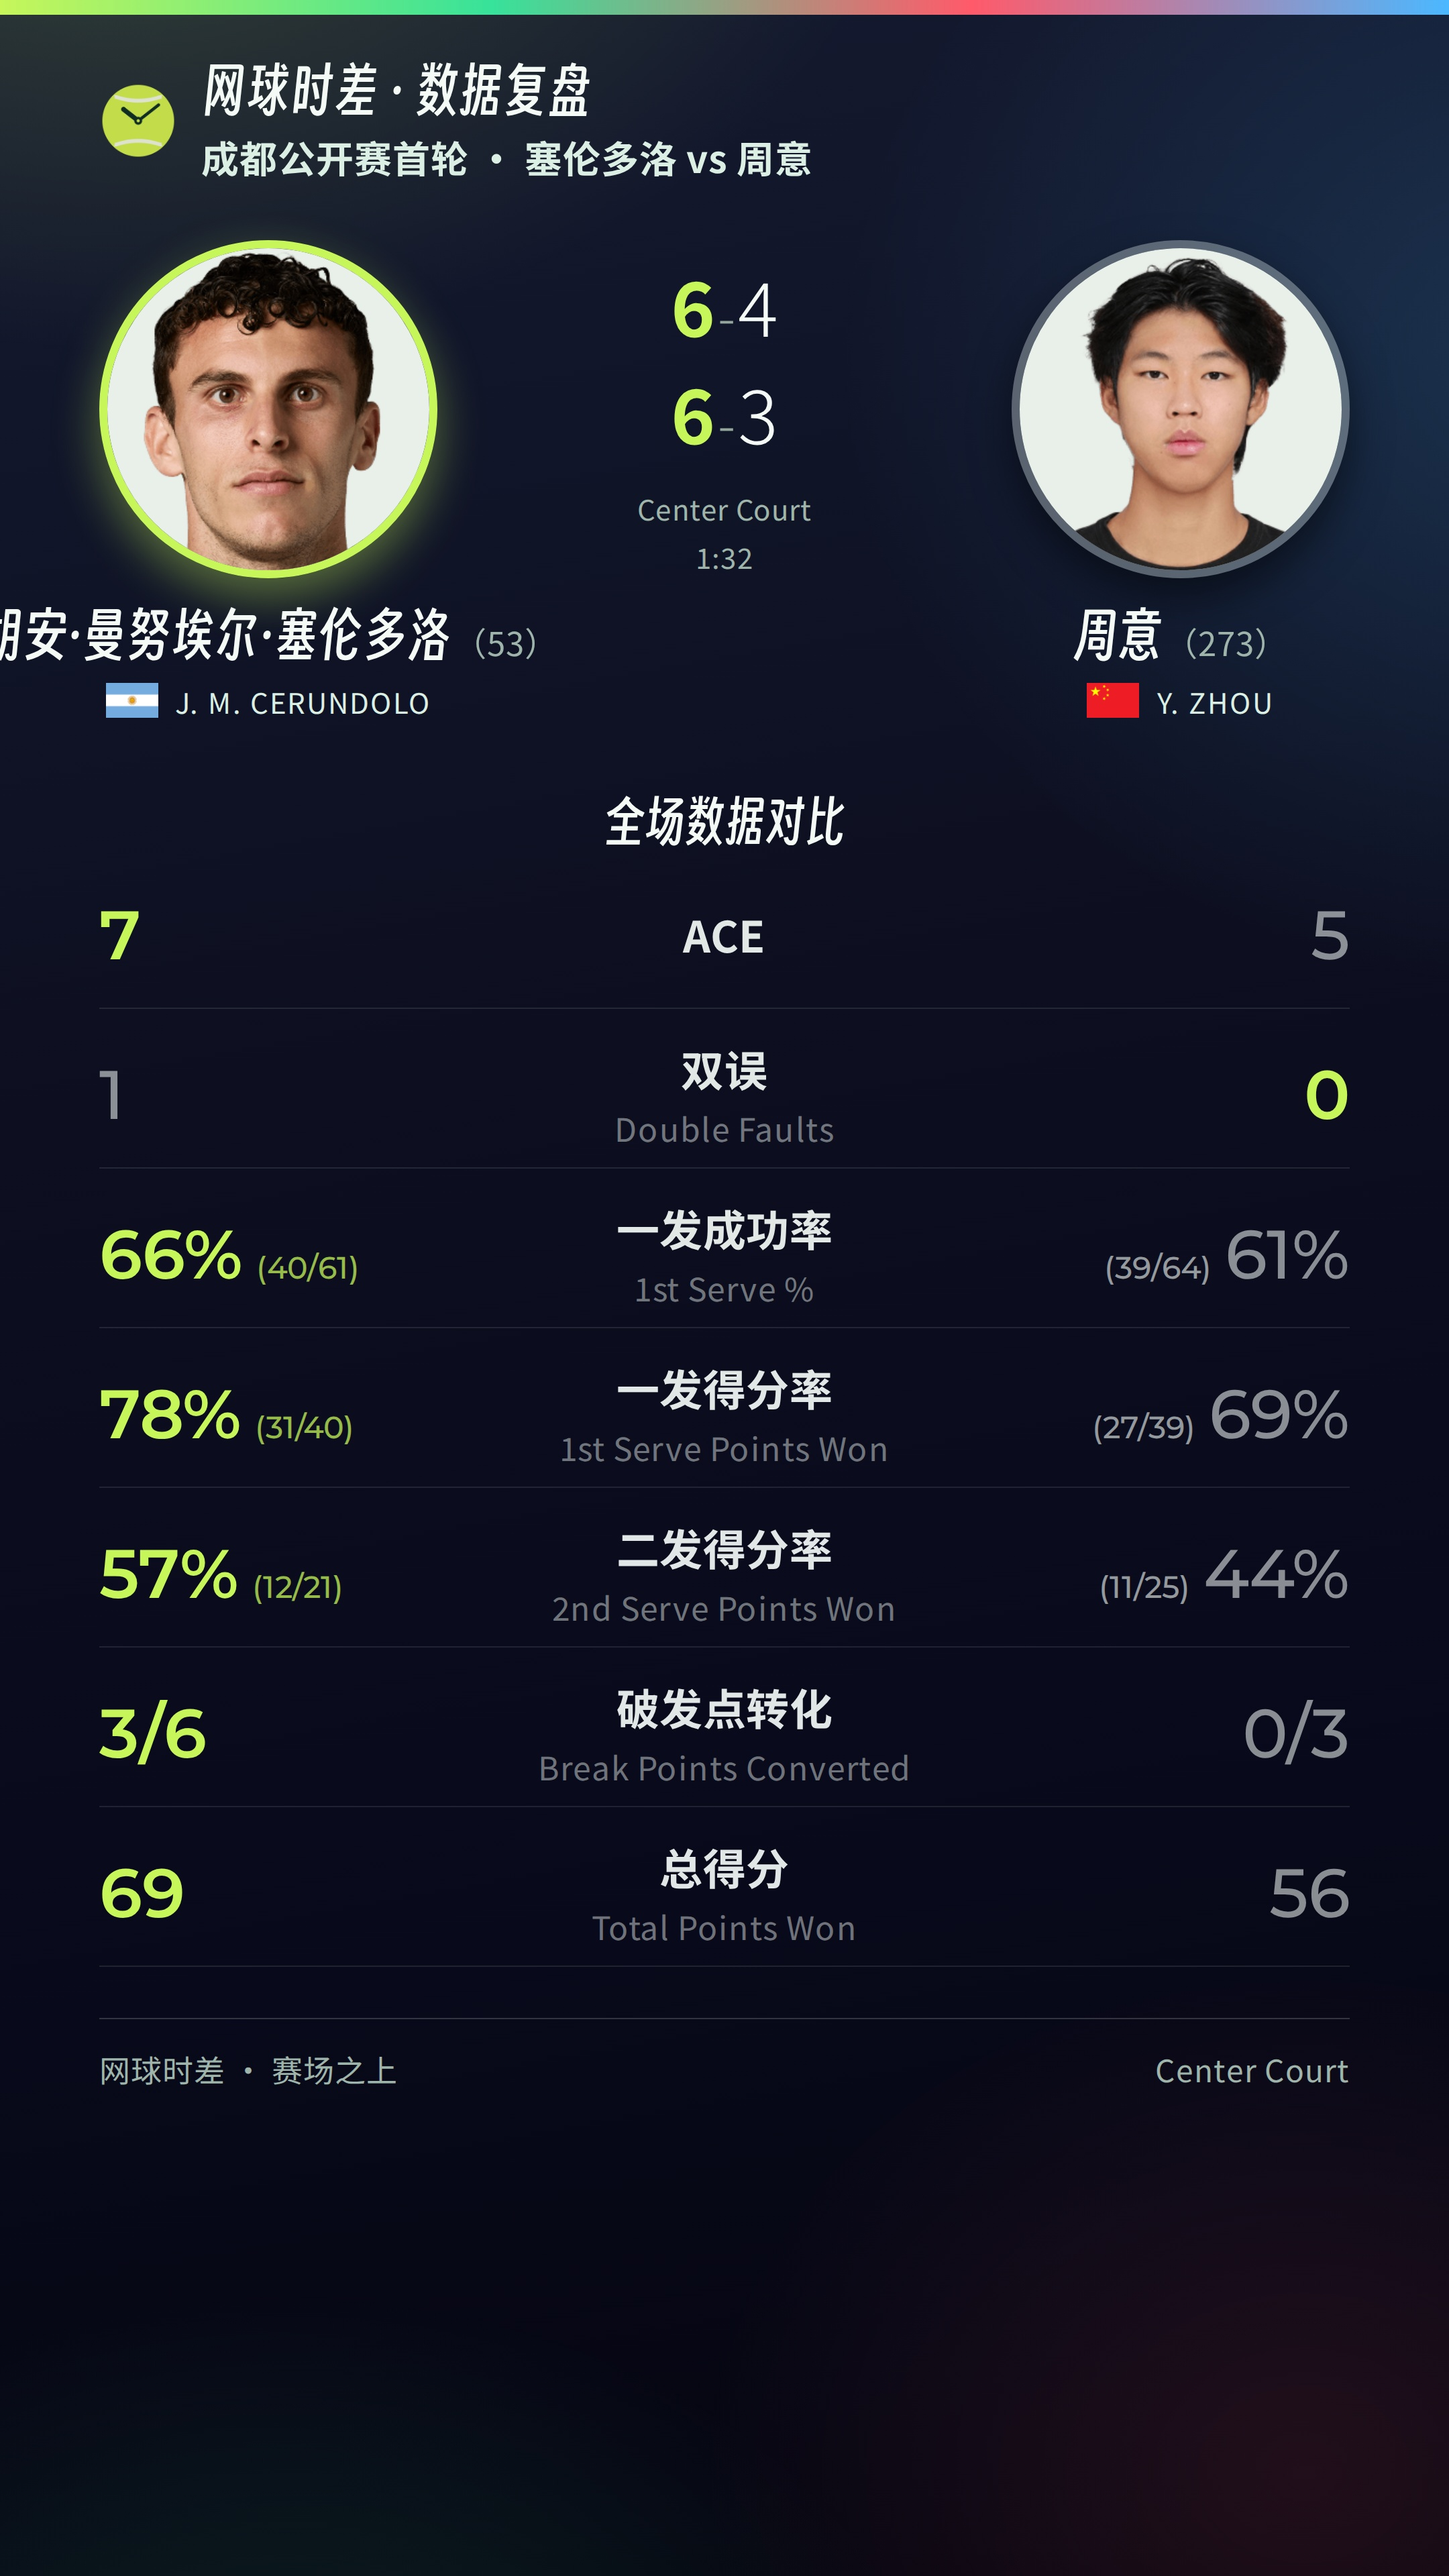
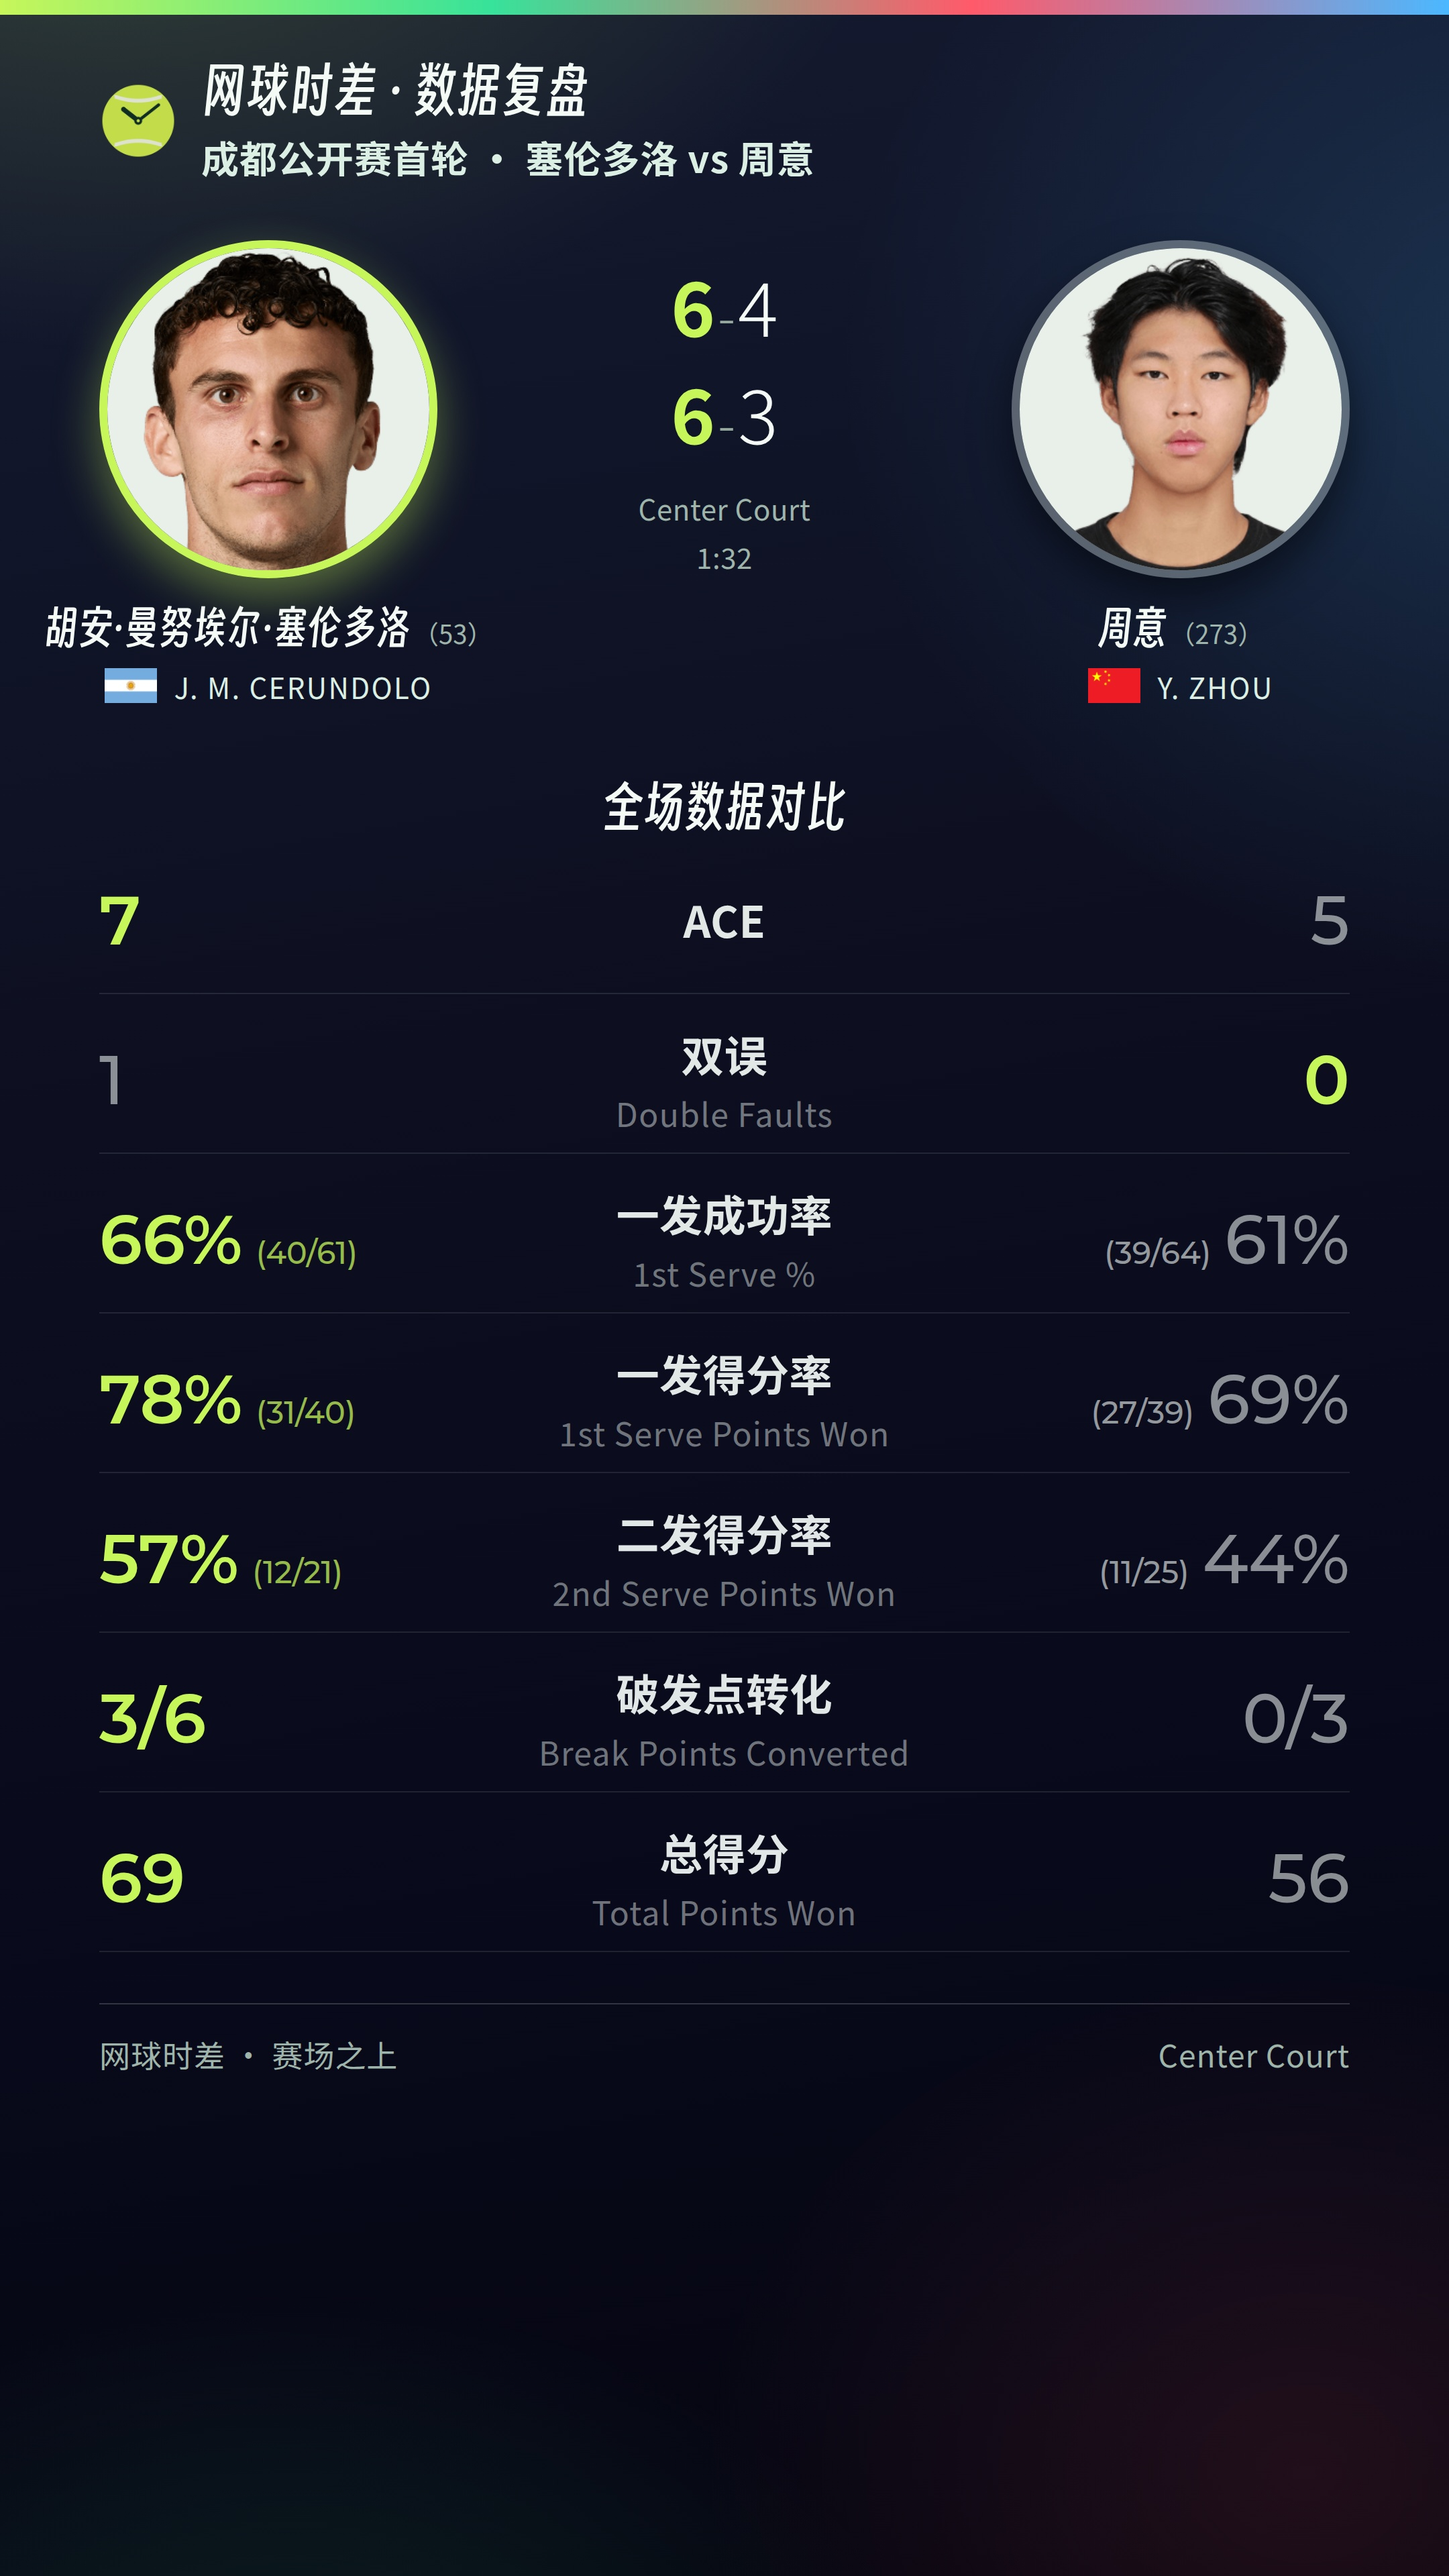
stat card: 头像底下的长中文名按宽度缩字号，不再出画布
「胡安·曼努埃尔·塞伦多洛（53）」在写死的 41px 下约 500px，居中摊开后
左半截出了画布（cerundolo-zhou-chengdu-2026-r1 的 stat_card.jpg 上「胡」字
被切掉一半）。改成按真字体量宽（versus_poster._name_width_px），两人共用
一个字号，短名字照旧 41px。判据 test_头像底下的长中文名要按宽度缩字号不许出画布，
两个方向反向验证过；这条片子的 stat_card.jpg 按新代码重出。

Claude-Session: https://claude.ai/code/session_01Lsir1zo8ARggSRMn4es4yW

diff --git a/tools/render_stat_card.py b/tools/render_stat_card.py
@@ -257,6 +257,39 @@ def h2h_set_row_style(sets: int) -> tuple[int, float]:
     return 40, 1.26
 
 
+# 头像底下中文名那一行的字号：短名字给满 41px，长的按宽度缩。
+# ⚠ 2026-09-25 `cerundolo-zhou-chengdu-2026-r1` 踩的：`.h2h-cn` 原来写死 41px ＋
+# `nowrap`，「胡安·曼努埃尔·塞伦多洛（53）」在 41px 下约 500px，而左边那一栏的
+# 中线在 x=200——文字居中往两边摊，左半截直接出了画布，「胡」字被切掉一半。
+# **渲染、质检、全量测试一律不出声**，是打开 stat_card.jpg 才看见的。
+# 可用宽度 340：名字以头像那一栏（x=58..342，中线 200）为中心摊开，左边离画布
+# 边 200，右边离中间比分那一栏（min-width 170 居中 → 左缘 455）255；取两头里
+# 更紧的一侧再各留 30px → (200-30)×2 = 340。
+# 两个人共用一个字号（取更紧的那个），和封面比分板 `score_cn_px` 同一个理由：
+# 同一张图上两个名字一大一小，看着像渲错了。
+H2H_CN_MAX_PX = 41
+H2H_CN_MIN_PX = 24
+H2H_CN_AVAIL_PX = 340
+
+
+def h2h_cn_px(matchup: list) -> int:
+    """数据图头像底下中文名（含排名）的字号，按两人里更长的那一个算。
+
+    宽度拿真字体量（`versus_poster._name_width_px`，得意黑 ＋ 排名走思源黑），
+    不按「一个汉字一个 em」估。那个函数按 `.62em` 量排名，这张图是 `.6em`，
+    多量出来的一两个像素是往安全的方向偏。
+    """
+    def widest(px: int) -> float:
+        return max((vp._name_width_px(str(m.get("name") or "").strip(),  # noqa: SLF001
+                                      m.get("rank"), px)
+                    for m in matchup), default=0.0)
+
+    px = H2H_CN_MAX_PX
+    while px > H2H_CN_MIN_PX and widest(px) > H2H_CN_AVAIL_PX:
+        px -= 1
+    return px
+
+
 # (标签, 类型, ...字段名)——固定模板，见模块 docstring「每一行谁占优」。
 ROW_SPECS = [
     # ⚠ 英文写空串＝**这一行故意不要英文**（账号所有者 2026-08-15：「ACE 就
@@ -443,6 +476,7 @@ def build(spec: dict, *, variant: str = "poster") -> str:
     swap = str(left_meta["name"]).strip() != winner
     set_tokens = _reorder_result(result, swap).split()
     set_px, set_lh = h2h_set_row_style(len(set_tokens))
+    cn_px = h2h_cn_px(matchup)
     sets_rows = "".join(
         f'<div class="h2h-set-row">{vp._sets_html(token)}</div>'  # noqa: SLF001
         for token in set_tokens)
@@ -574,7 +608,7 @@ body{{color:{vp.TEXT};font-family:'TL Sans SC','Noto Sans CJK SC',sans-serif;
 .h2h-ring--pair{{width:150px;height:150px;margin:0 -15px;position:relative}}
 .h2h-ring--pair:first-child{{z-index:2}}
 .h2h-ring--pair:last-child{{z-index:1}}
-.h2h-cn{{font-family:'TL Display SC','TL Sans SC',sans-serif;font-size:41px;
+.h2h-cn{{font-family:'TL Display SC','TL Sans SC',sans-serif;font-size:{cn_px}px;
  margin-top:18px;text-align:center;white-space:nowrap}}
 /* ⚠ 排名数字也走 `TL Score`——它原来什么都没写、跟着 `.h2h-cn` 继承了得意黑，
    于是同一张卡上有两副数字（分盘比分是 Noto，排名是得意黑）。账号所有者

diff --git a/tests/test_stat_card.py b/tests/test_stat_card.py
@@ -819,3 +819,27 @@ def test_full_canvas_data_card_preserves_design_and_covers_overlays(tmp_path, mo
     assert f"gte(t,{start:.6f})*lt(t,{start + page.length:.6f})" in graph
     assert '[decorated][clean_canvas]overlay=0:0' in graph
     assert reel.full_canvas_filtergraph('[0:v]null[out]', segs, 1.2) == '[0:v]null[out]'
+
+
+def test_头像底下的长中文名要按宽度缩字号不许出画布():
+    """2026-09-25 `cerundolo-zhou-chengdu-2026-r1`：`.h2h-cn` 写死 41px ＋ nowrap，
+    「胡安·曼努埃尔·塞伦多洛（53）」居中摊开，左半截出了画布、「胡」字被切掉一半，
+    渲染和质检都不出声。钉三头：长名字缩到装得下；短名字照旧 41px（别一刀全缩小）；
+    算出来的字号真的写进了 CSS（占位符没插值、忘了调都长成写死的那一个数）。
+    """
+    long_pair = [{"name": "胡安·曼努埃尔·塞伦多洛", "rank": 53},
+                 {"name": "周意", "rank": 273}]
+    px = sc.h2h_cn_px(long_pair)
+    assert sc.H2H_CN_MIN_PX <= px < sc.H2H_CN_MAX_PX
+    widest = max(sc.vp._name_width_px(m["name"], m["rank"], px) for m in long_pair)  # noqa: SLF001
+    assert widest <= sc.H2H_CN_AVAIL_PX, (px, widest)
+
+    short_pair = [{"name": "商竣程", "rank": 253}, {"name": "马纳里诺", "rank": 78}]
+    assert sc.h2h_cn_px(short_pair) == sc.H2H_CN_MAX_PX
+
+    spec = json.loads((Path(__file__).resolve().parent.parent
+                       / "specs/reels/cerundolo-zhou-chengdu-2026-r1.json").read_text())
+    css = sc.build(spec)
+    got = re.search(r"\.h2h-cn\{[^}]*font-size:(\d+)px", css)
+    assert got and int(got.group(1)) == sc.h2h_cn_px(spec["cover"]["matchup"]), (
+        "`.h2h-cn` 的字号不是按名字宽度算出来的那个数")
